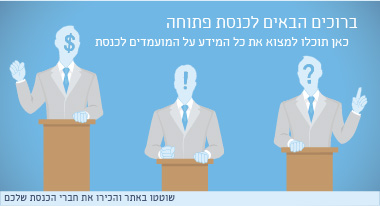
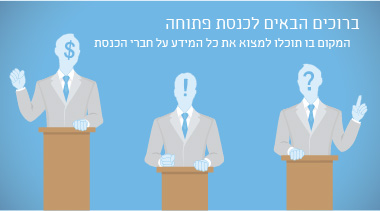
homepage

diff --git a/src/knesset/knesset/templates/main.he.html b/src/knesset/knesset/templates/main.he.html
@@ -2,9 +2,6 @@
 {% load i18n i18ninclude mks_tags bills_tags search hlp avatar_tags %}
 {% block description %}{% trans 'Open Knesset - Opening the Knesset to the public' %}. {% trans 'Non partisan, non commercial site that brings you relevant, detailed and accurate information about the knesset' %}{% endblock %}
 {% block extratitle %}{% trans 'Home' %}{% endblock %}
-{% block help-section %}
-     {% i18ninclude "main_help.html" LANGUAGE_CODE %}
-{% endblock %}
 {% block nav-main-page %} class="selected" {% endblock %}
 {% block subnav %}
 <div style="text-align:center;">
@@ -46,6 +43,13 @@
         <!-- AddToAny END -->
     </div>
     <div id="main-help" class="display_note_outer">
+        <h2>כלים נוספים שיעזרו לכם לבחור</h2>
+        <p><a href="http://www.mitpakdim.co.il/site/primaries/app/index.html" target="_blank">המדח"כ - הכלי שעושה לכם סדר בחברי הכנסת והמועמדים</a></p>
+        <p>אתרי שאלות ותשובות <a href="http://havoda.yeda.us/" target="_blank">במפלגת העבודה</a> ו<a href="http://likud.yeda.us/" target="_blank">בליכוד</a></p>
+        <p><a href="http://us6.campaign-archive1.com/?u=83cbee60b032fa5ca7b04f098&id=278c6c9998" target="_blank">ועלון המידע של הסדנא לידע ציבורי</a></p>
+    </div>
+    <!--
+    <div id="main-help" class="display_note_outer">
         <p>תרומות כספיות יכולות לעזור לנו מאוד להמשיך בפיתוח האתר, והן גם עוזרות לנו בכך שהן מראות שהציבור איתנו.</p>
         <form method="post" action="https://www.paypal.com/cgi-bin/webscr">
             <input type="hidden" value="_s-xclick" name="cmd">
@@ -54,6 +58,7 @@
             <img width="1" height="1" border="0" src="https://www.paypalobjects.com/WEBSCR-640-20110306-1/he_IL/i/scr/pixel.gif" alt="">
         </form>
     </div>
+    -->
 </div>
 <div class="clear"></div>
 
